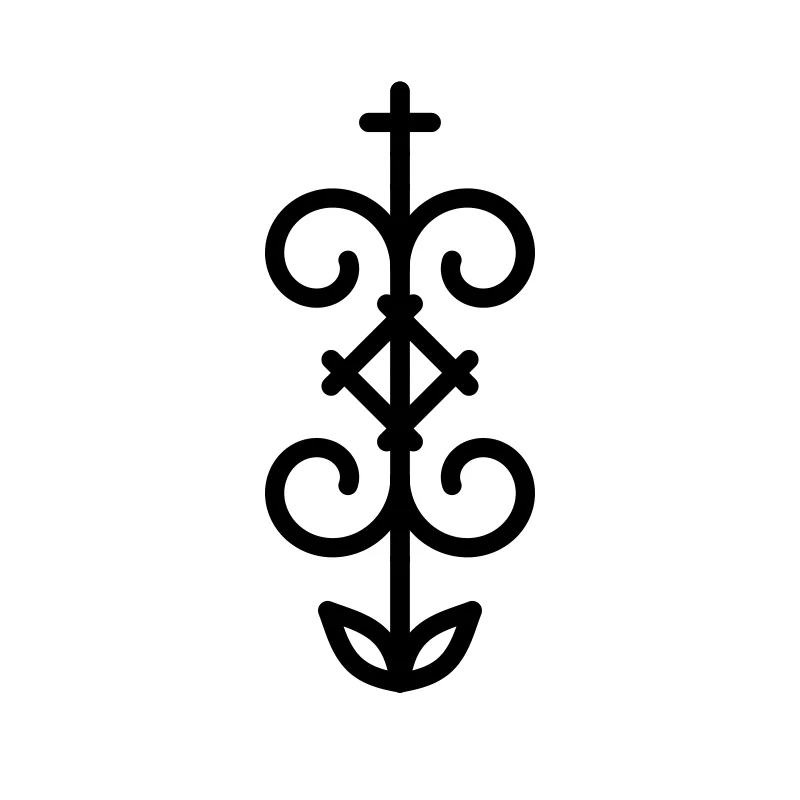
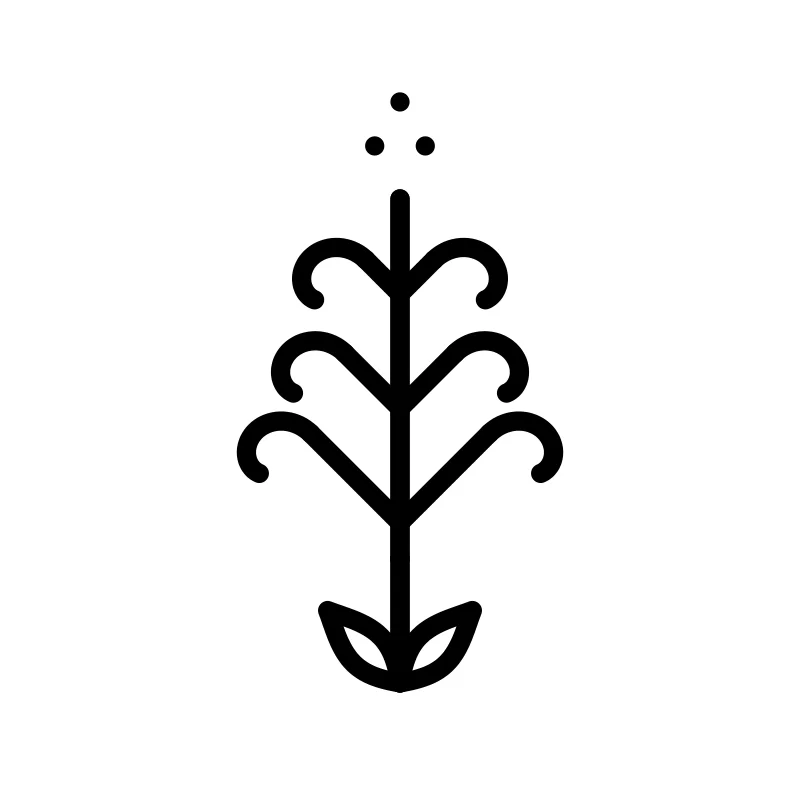
Estilos: fila de cinco (cuatro estilos con su nombre + Pide tu estilo); olivo, signo en árbol y tulipán como ejemplos

Changed region(s): [[0.2812, 0.0938, 0.7188, 0.7188]]

diff --git a/es/index.html b/es/index.html
@@ -394,21 +394,18 @@ footer .brand img { width: 3rem; height: 3rem; }
 .style .grid-black { grid-template-columns: repeat(2, minmax(0, 1fr)); gap: clamp(0.7rem, 1.6vw, 1rem); }
 .style .card-row { flex-wrap: wrap; gap: 0.45rem 0.75rem; }
 .style .cap { font-size: 0.8rem; }
-.styles .also.one { margin-top: 0; max-width: 34rem; }
-.styles .also.one article { grid-template-rows: none; grid-template-columns: 5.5rem minmax(0, 1fr); }
-.styles .also.one .wip { aspect-ratio: auto; width: auto; height: auto; -webkit-mask: none; mask: none; }
-.styles .also.one .body { padding: 1rem 1.2rem; }
-.styles .also.one .gothic { font-size: 1.8rem; }
 @media (max-width: 900px) { .styles-grid { grid-template-columns: minmax(0, 1fr); } }
-/* Los otros estilos, en pequeño: ficha con miniatura a la izquierda y texto a la derecha, dos por fila en el ordenador y una en el móvil */
-.styles-more { display: grid; grid-template-columns: repeat(2, minmax(0, 1fr)); gap: 1.2rem clamp(1.6rem, 4vw, 3.5rem); padding-top: clamp(2rem, 4vw, 3rem); border-top: 1px solid var(--line); }
-.style-mini { display: grid; grid-template-columns: clamp(6.5rem, 12vw, 8.5rem) minmax(0, 1fr); grid-template-rows: auto auto 1fr; column-gap: 1.1rem; row-gap: 0.25rem; align-items: start; min-width: 0; scroll-margin-top: 1rem; }
-.style-mini .frame { grid-row: 1 / -1; position: relative; background: var(--paper); aspect-ratio: 1; overflow: hidden; -webkit-mask: radial-gradient(ellipse 72% 70% at 50% 50%, #000 66%, transparent 100%); mask: radial-gradient(ellipse 72% 70% at 50% 50%, #000 66%, transparent 100%); }
+/* Los otros estilos, en pequeño: una fila de cinco (cuatro estilos con su nombre y "Pide tu estilo") en el ordenador */
+.styles-more { display: grid; grid-template-columns: repeat(5, minmax(0, 1fr)); gap: 1.4rem clamp(0.8rem, 2vw, 1.4rem); padding-top: clamp(2rem, 4vw, 3rem); border-top: 1px solid var(--line); }
+.style-mini { display: grid; gap: 0.5rem; align-content: start; min-width: 0; scroll-margin-top: 1rem; }
+.style-mini .frame { position: relative; background: var(--paper); aspect-ratio: 1; overflow: hidden; -webkit-mask: radial-gradient(ellipse 72% 70% at 50% 50%, #000 66%, transparent 100%); mask: radial-gradient(ellipse 72% 70% at 50% 50%, #000 66%, transparent 100%); }
 .style-mini .frame img { position: absolute; inset: 0; width: 100%; height: 100%; object-fit: cover; mix-blend-mode: multiply; }
-.style-mini .style-name { font-size: clamp(1.7rem, 2.6vw, 2.1rem); }
-.style-mini p { color: var(--dim); font-size: 0.88rem; line-height: 1.45; }
-.style-mini .cap { font-size: 0.76rem; }
-@media (max-width: 640px) { .styles-more { grid-template-columns: minmax(0, 1fr); } }
+.style-mini .style-name { font-size: clamp(1.5rem, 2.3vw, 2rem); }
+.style-ask { aspect-ratio: 1; display: grid; place-items: center; padding: 1rem; border: 1px dashed #4A4640; background: repeating-linear-gradient(135deg, var(--black) 0 8px, var(--coal) 8px 16px); color: var(--bone); text-decoration: none; text-align: center; font: expanded 700 0.72rem/1.4 var(--caps); letter-spacing: 0.05em; text-transform: uppercase; transition: border-color 0.2s; }
+.style-ask:hover { border-color: var(--bone); }
+.style-ask span { display: block; font: 400 2.4rem/1 var(--gothic); letter-spacing: 0; margin-bottom: 0.3rem; }
+@media (max-width: 900px) { .styles-more { grid-template-columns: repeat(3, minmax(0, 1fr)); } }
+@media (max-width: 560px) { .styles-more { grid-template-columns: repeat(2, minmax(0, 1fr)); } .style-ask { aspect-ratio: auto; grid-column: 1 / -1; padding: 1.2rem; } }
 @media (prefers-reduced-motion: reduce) { .card .frame img { transition: none; } }
 </style>
 <style>:root{padding-top:env(safe-area-inset-top,0px);padding-bottom:env(safe-area-inset-bottom,0px)} body{margin:0} img{max-width:100%} [hidden]{display:none!important}</style>
@@ -489,13 +486,11 @@ footer .brand img { width: 3rem; height: 3rem; }
   </article>
   </div>
   <div class="styles-more">
-    <article class="style-mini" id="tradicional"><div class="frame"><img src="/img/trad-1.webp" alt="Perfil de mujer de ojos cerrados envuelto por los pétalos de una rosa roja, tradicional moderno a color" width="800" height="800" loading="lazy"></div><h2 class="style-name">Tradicional</h2><p>Tatuaje tradicional moderno: contorno limpio, sombra negra suave y color cálido.</p><span class="cap">Mujer en la rosa · antebrazo 15 cm</span></article>
-    <article class="style-mini" id="fineline"><div class="frame"><img src="/img/fine-1.webp" alt="Ramito de margarita y nenúfar atado con un lazo, línea fina" width="800" height="800" loading="lazy"></div><h2 class="style-name">Fineline</h2><p>Tatuaje fineline: línea fina de una aguja, verdad botánica y piel libre.</p><span class="cap">Flores de nacimiento · costillas 12 cm</span></article>
-    <article class="style-mini" id="ornamental"><div class="frame"><img src="/img/orn-1.webp" alt="Signo folk de volutas en espejo con una cruz arriba, un rombo en el centro y dos hojas abajo, en línea negra de un solo grosor" width="800" height="800" loading="lazy"></div><h2 class="style-name">Ornamental</h2><p>Tatuaje ornamental: signos folk de bordado en negro, todos con el mismo grosor de línea.</p><span class="cap">Volutas en flor · antebrazo 12 cm</span></article>
-    <article class="style-mini" id="vintage-stamp"><div class="frame"><img src="/img/stamp-1.webp" alt="Rosa maciza en negro con tallo y hojas dentro de un óvalo festoneado de doble línea, estilo sello antiguo" width="800" height="800" loading="lazy"></div><h2 class="style-name">Vintage Stamp</h2><p>Tatuaje estilo sello antiguo: marco de doble línea y una flor maciza en negro.</p><span class="cap">Rosa en óvalo · antebrazo 8 cm</span></article>
-  </div>
-  <div class="also one">
-    <article><div class="img wip" aria-hidden="true"><span>?</span></div><div class="body"><h3 class="gothic">¿Otro estilo?</h3><p>Dinos cuál quieres después. Lo que piden los fundadores va primero.</p><a class="more" href="#fundador">Pide tu estilo</a></div></article>
+    <article class="style-mini" id="tradicional"><div class="frame"><img src="/img/trad-1.webp" alt="Perfil de mujer de ojos cerrados envuelto por los pétalos de una rosa roja, tradicional moderno a color" width="800" height="800" loading="lazy"></div><h2 class="style-name">Tradicional</h2></article>
+    <article class="style-mini" id="fineline"><div class="frame"><img src="/img/fine-2.webp" alt="Ramita de olivo con dos aceitunas, línea fina" width="800" height="800" loading="lazy"></div><h2 class="style-name">Fineline</h2></article>
+    <article class="style-mini" id="ornamental"><div class="frame"><img src="/img/orn-1.webp" alt="Signo folk en forma de árbol: tres pares de ramas con volutas, tres puntos arriba y dos hojas abajo, en línea negra de un solo grosor" width="800" height="800" loading="lazy"></div><h2 class="style-name">Ornamental</h2></article>
+    <article class="style-mini" id="vintage-stamp"><div class="frame"><img src="/img/stamp-1.webp" alt="Tulipán macizo en negro con dos hojas dentro de un arco de ventana de doble línea, estilo sello antiguo" width="800" height="800" loading="lazy"></div><h2 class="style-name">Vintage Stamp</h2></article>
+    <a class="style-ask" href="#fundador"><span>+</span>Pide tu estilo</a>
   </div>
 </div></section>
 

diff --git a/index.html b/index.html
@@ -398,21 +398,18 @@ footer .brand img { width: 3rem; height: 3rem; }
 .style .grid-black { grid-template-columns: repeat(2, minmax(0, 1fr)); gap: clamp(0.7rem, 1.6vw, 1rem); }
 .style .card-row { flex-wrap: wrap; gap: 0.45rem 0.75rem; }
 .style .cap { font-size: 0.8rem; }
-.styles .also.one { margin-top: 0; max-width: 34rem; }
-.styles .also.one article { grid-template-rows: none; grid-template-columns: 5.5rem minmax(0, 1fr); }
-.styles .also.one .wip { aspect-ratio: auto; width: auto; height: auto; -webkit-mask: none; mask: none; }
-.styles .also.one .body { padding: 1rem 1.2rem; }
-.styles .also.one .gothic { font-size: 1.8rem; }
 @media (max-width: 900px) { .styles-grid { grid-template-columns: minmax(0, 1fr); } }
-/* Los otros estilos, en pequeño: ficha con miniatura a la izquierda y texto a la derecha, dos por fila en el ordenador y una en el móvil */
-.styles-more { display: grid; grid-template-columns: repeat(2, minmax(0, 1fr)); gap: 1.2rem clamp(1.6rem, 4vw, 3.5rem); padding-top: clamp(2rem, 4vw, 3rem); border-top: 1px solid var(--line); }
-.style-mini { display: grid; grid-template-columns: clamp(6.5rem, 12vw, 8.5rem) minmax(0, 1fr); grid-template-rows: auto auto 1fr; column-gap: 1.1rem; row-gap: 0.25rem; align-items: start; min-width: 0; scroll-margin-top: 1rem; }
-.style-mini .frame { grid-row: 1 / -1; position: relative; background: var(--paper); aspect-ratio: 1; overflow: hidden; -webkit-mask: radial-gradient(ellipse 72% 70% at 50% 50%, #000 66%, transparent 100%); mask: radial-gradient(ellipse 72% 70% at 50% 50%, #000 66%, transparent 100%); }
+/* Los otros estilos, en pequeño: una fila de cinco (cuatro estilos con su nombre y "Pide tu estilo") en el ordenador */
+.styles-more { display: grid; grid-template-columns: repeat(5, minmax(0, 1fr)); gap: 1.4rem clamp(0.8rem, 2vw, 1.4rem); padding-top: clamp(2rem, 4vw, 3rem); border-top: 1px solid var(--line); }
+.style-mini { display: grid; gap: 0.5rem; align-content: start; min-width: 0; scroll-margin-top: 1rem; }
+.style-mini .frame { position: relative; background: var(--paper); aspect-ratio: 1; overflow: hidden; -webkit-mask: radial-gradient(ellipse 72% 70% at 50% 50%, #000 66%, transparent 100%); mask: radial-gradient(ellipse 72% 70% at 50% 50%, #000 66%, transparent 100%); }
 .style-mini .frame img { position: absolute; inset: 0; width: 100%; height: 100%; object-fit: cover; mix-blend-mode: multiply; }
-.style-mini .style-name { font-size: clamp(1.7rem, 2.6vw, 2.1rem); }
-.style-mini p { color: var(--dim); font-size: 0.88rem; line-height: 1.45; }
-.style-mini .cap { font-size: 0.76rem; }
-@media (max-width: 640px) { .styles-more { grid-template-columns: minmax(0, 1fr); } }
+.style-mini .style-name { font-size: clamp(1.5rem, 2.3vw, 2rem); }
+.style-ask { aspect-ratio: 1; display: grid; place-items: center; padding: 1rem; border: 1px dashed #4A4640; background: repeating-linear-gradient(135deg, var(--black) 0 8px, var(--coal) 8px 16px); color: var(--bone); text-decoration: none; text-align: center; font: expanded 700 0.72rem/1.4 var(--caps); letter-spacing: 0.05em; text-transform: uppercase; transition: border-color 0.2s; }
+.style-ask:hover { border-color: var(--bone); }
+.style-ask span { display: block; font: 400 2.4rem/1 var(--gothic); letter-spacing: 0; margin-bottom: 0.3rem; }
+@media (max-width: 900px) { .styles-more { grid-template-columns: repeat(3, minmax(0, 1fr)); } }
+@media (max-width: 560px) { .styles-more { grid-template-columns: repeat(2, minmax(0, 1fr)); } .style-ask { aspect-ratio: auto; grid-column: 1 / -1; padding: 1.2rem; } }
 @media (prefers-reduced-motion: reduce) { .card .frame img { transition: none; } }
 </style>
 <style>:root{padding-top:env(safe-area-inset-top,0px);padding-bottom:env(safe-area-inset-bottom,0px)} body{margin:0} img{max-width:100%} [hidden]{display:none!important}</style>
@@ -494,13 +491,11 @@ footer .brand img { width: 3rem; height: 3rem; }
   </article>
   </div>
   <div class="styles-more">
-    <article class="style-mini" id="traditional"><div class="frame"><img src="/img/trad-1.webp" alt="Profile of a woman with closed eyes wrapped in the petals of a red rose, modern traditional in color" width="800" height="800" loading="lazy"></div><h2 class="style-name">Traditional</h2><p>Modern traditional tattoo: clean outline, smooth black shading and warm color.</p><span class="cap">Woman in the rose · forearm 15 cm</span></article>
-    <article class="style-mini" id="fineline"><div class="frame"><img src="/img/fine-1.webp" alt="Small bouquet of a daisy and a water lily tied with a bow, fine line" width="800" height="800" loading="lazy"></div><h2 class="style-name">Fine line</h2><p>Fine line tattoo: single-needle line, botanical truth and plenty of bare skin.</p><span class="cap">Birth flowers · ribs 12 cm</span></article>
-    <article class="style-mini" id="ornamental"><div class="frame"><img src="/img/orn-1.webp" alt="Folk sign of mirrored scrolls with a cross on top, a diamond in the center and two leaves below, in single-weight black line" width="800" height="800" loading="lazy"></div><h2 class="style-name">Ornamental</h2><p>Ornamental tattoo: folk embroidery signs in black, all in one line weight.</p><span class="cap">Scrolls in bloom · forearm 12 cm</span></article>
-    <article class="style-mini" id="vintage-stamp"><div class="frame"><img src="/img/stamp-1.webp" alt="Solid black rose with stem and leaves inside a scalloped double-line oval, vintage stamp style" width="800" height="800" loading="lazy"></div><h2 class="style-name">Vintage Stamp</h2><p>Vintage stamp tattoo: a double-line frame around one solid black flower.</p><span class="cap">Rose in an oval · forearm 8 cm</span></article>
-  </div>
-  <div class="also one">
-    <article><div class="img wip" aria-hidden="true"><span>?</span></div><div class="body"><h3 class="gothic">Another style?</h3><p>Tell us which one you want next. What founders ask for comes first.</p><a class="more" href="#founder">Ask for your style</a></div></article>
+    <article class="style-mini" id="traditional"><div class="frame"><img src="/img/trad-1.webp" alt="Profile of a woman with closed eyes wrapped in the petals of a red rose, modern traditional in color" width="800" height="800" loading="lazy"></div><h2 class="style-name">Traditional</h2></article>
+    <article class="style-mini" id="fineline"><div class="frame"><img src="/img/fine-2.webp" alt="Olive sprig with two olives, fine line" width="800" height="800" loading="lazy"></div><h2 class="style-name">Fine line</h2></article>
+    <article class="style-mini" id="ornamental"><div class="frame"><img src="/img/orn-1.webp" alt="Tree-shaped folk sign: three pairs of scrolled branches, three dots on top and two leaves below, in single-weight black line" width="800" height="800" loading="lazy"></div><h2 class="style-name">Ornamental</h2></article>
+    <article class="style-mini" id="vintage-stamp"><div class="frame"><img src="/img/stamp-1.webp" alt="Solid black tulip with two leaves inside a double-line arched window frame, vintage stamp style" width="800" height="800" loading="lazy"></div><h2 class="style-name">Vintage Stamp</h2></article>
+    <a class="style-ask" href="#founder"><span>+</span>Ask for your style</a>
   </div>
 </div></section>
 

diff --git a/CLAUDE.md b/CLAUDE.md
@@ -70,6 +70,6 @@ Una sola dirección pública: `hello@inkdraft.tattoo`. Los dos emails del formul
 - Probado y descartado por Marc el 23 oct: lámina animada con el proceso real; grabados de la polilla (vertical en lámina, en negativo, horizontal con nota arrugada, redondo con halo de papel). Quería una imagen real, sin halo y con los botones visibles.
 
 ## Seis estilos (23 oct 2026, Marc)
-- Todos los estilos de la app en la landing. Blackwork y Neotradicional en grande (dos ejemplos con su stencil, `section.styles .styles-grid`); Tradicional, Fineline, Ornamental y Vintage Stamp en pequeño (`.styles-more`): ficha con una miniatura y texto, dos por fila en el ordenador y una en el móvil, un solo ejemplo y sin botón de stencil. Ids: #tradicional/#traditional, #fineline, #ornamental, #vintage-stamp.
-- Ejemplos nuevos: `orn-1.webp` (signo "volutas en flor" dibujado con el motor de signos de la app, `src/lib/folksign.ts` del repo de la app: corona cruz, centro doble voluta, base hojas) y `stamp-1.webp` (rosa en óvalo festoneado, banco de Vintage Stamp ronda 5, 8 cm). `trad-2`, `fine-2` y los stencils de `trad-1`/`fine-1` siguen en `img/` pero ya no salen (fuera del sitemap).
+- Todos los estilos de la app en la landing. Blackwork y Neotradicional en grande (dos ejemplos con su stencil, `section.styles .styles-grid`). Debajo, una fila de cinco casillas (`.styles-more`): Tradicional, Fineline, Ornamental y Vintage Stamp, cada uno con un ejemplo y solo su nombre (sin texto, sin pie ni botón de stencil), y la quinta "+ Pide tu estilo" que lleva al formulario de fundador (sustituye a la ficha "¿Otro estilo?"). Tres por fila en iPad; dos en el móvil, con "Pide tu estilo" a todo el ancho. Ids: #tradicional/#traditional, #fineline, #ornamental, #vintage-stamp.
+- Ejemplos: Tradicional `trad-1` (mujer en la rosa), Fineline `fine-2` (ramita de olivo), Ornamental `orn-1.webp` (signo en árbol dibujado con el motor de signos de la app, `src/lib/folksign.ts` del repo de la app: corona trío, centro árbol, base hojas), Vintage Stamp `stamp-1.webp` (tulipán en arco de ventana, banco de Vintage Stamp ronda 1). Los banco de Fineline más nuevos (estética flash) solo existen como capturas de pantalla: para cambiar el ejemplo hay que generarlo en la app con la cuenta de Marc.
 - Descripción (meta) "…fineline y más"; FAQ y JSON-LD con los seis; `llms.txt` y `sitemap.xml` al día. Ojo: en la app, Ornamental y Vintage Stamp aún están `ready: false` (solo con `?pruebas`).
